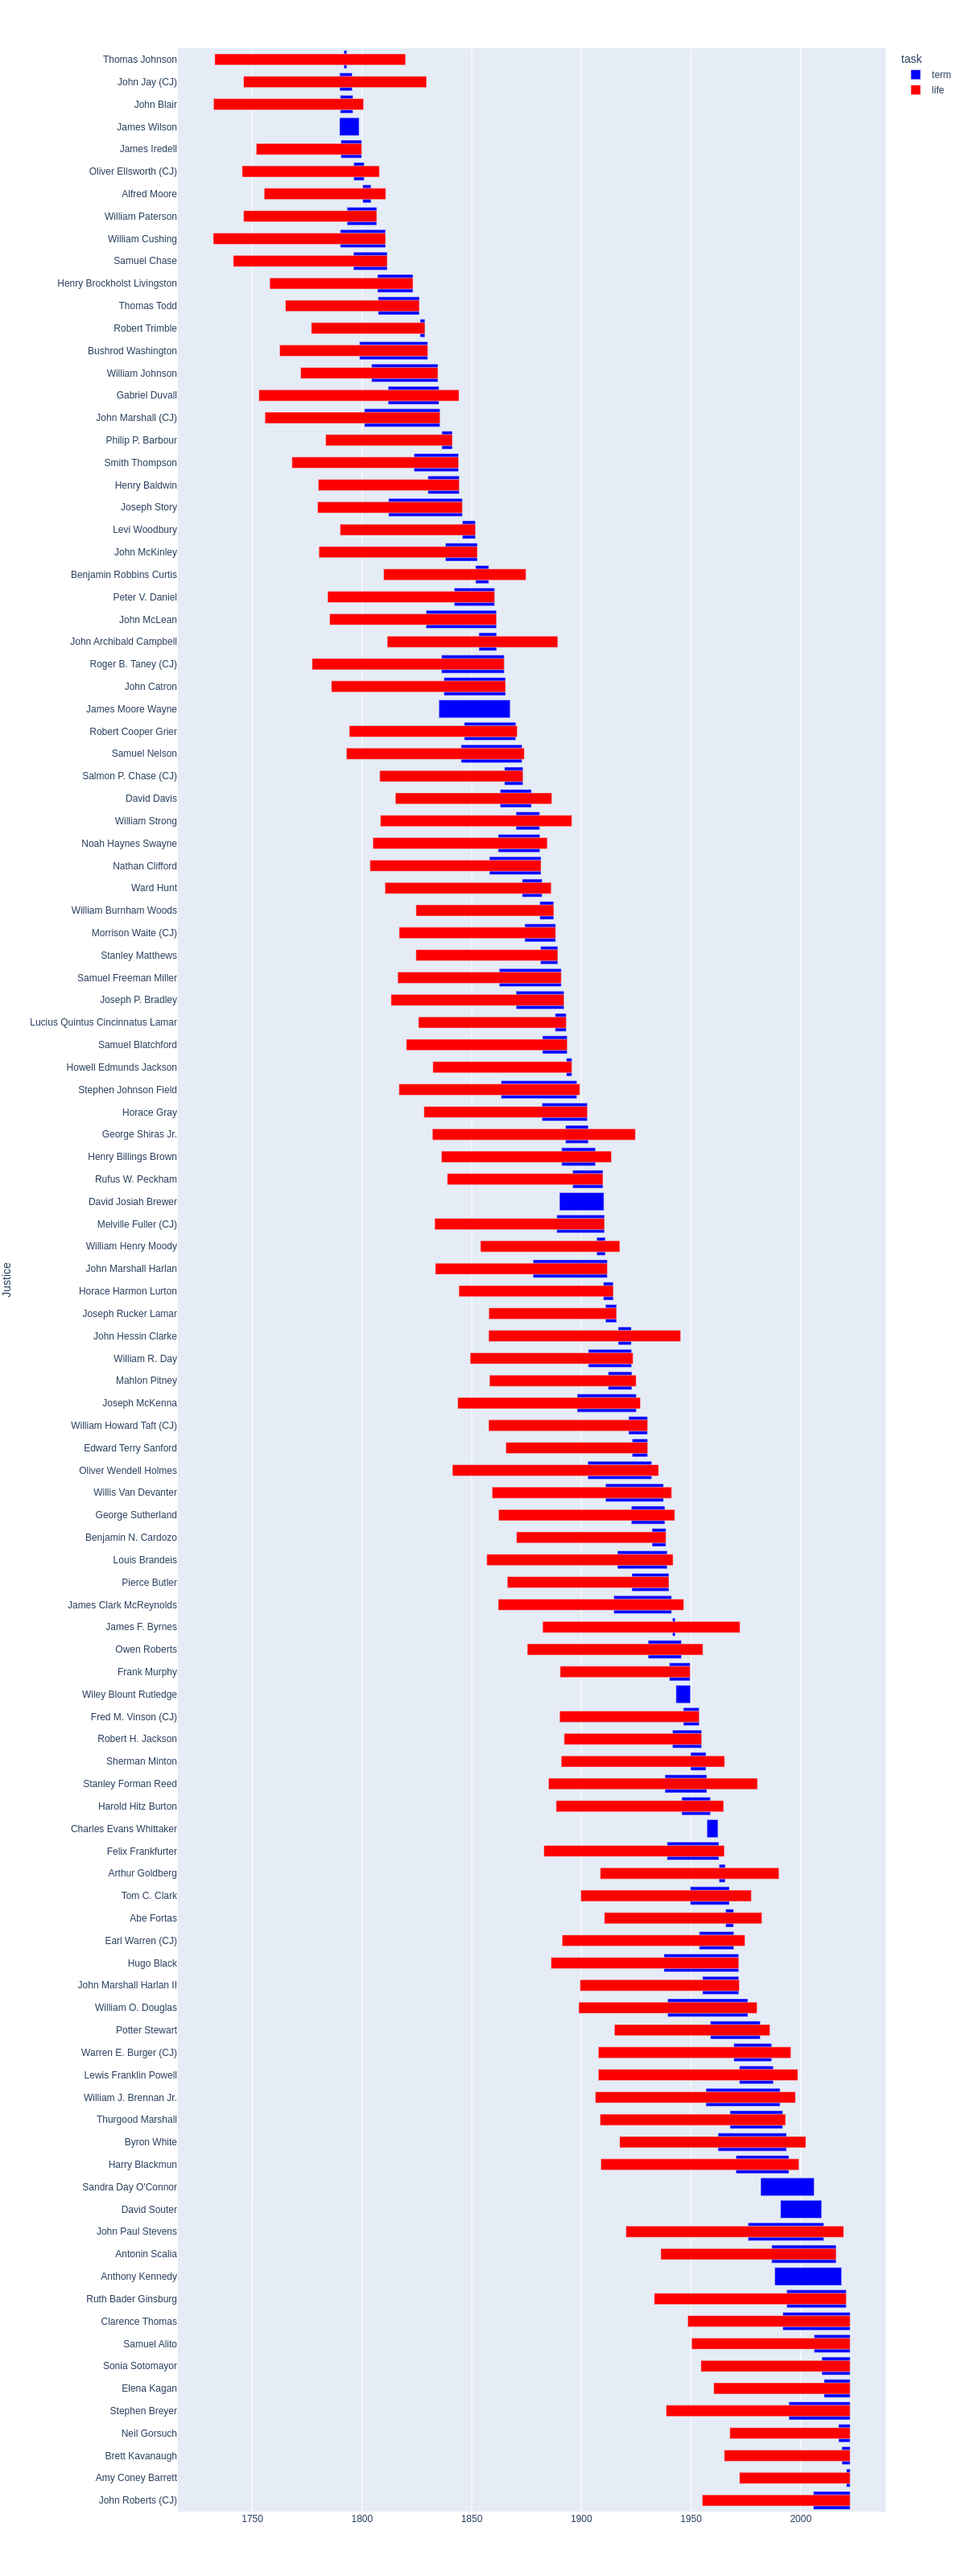
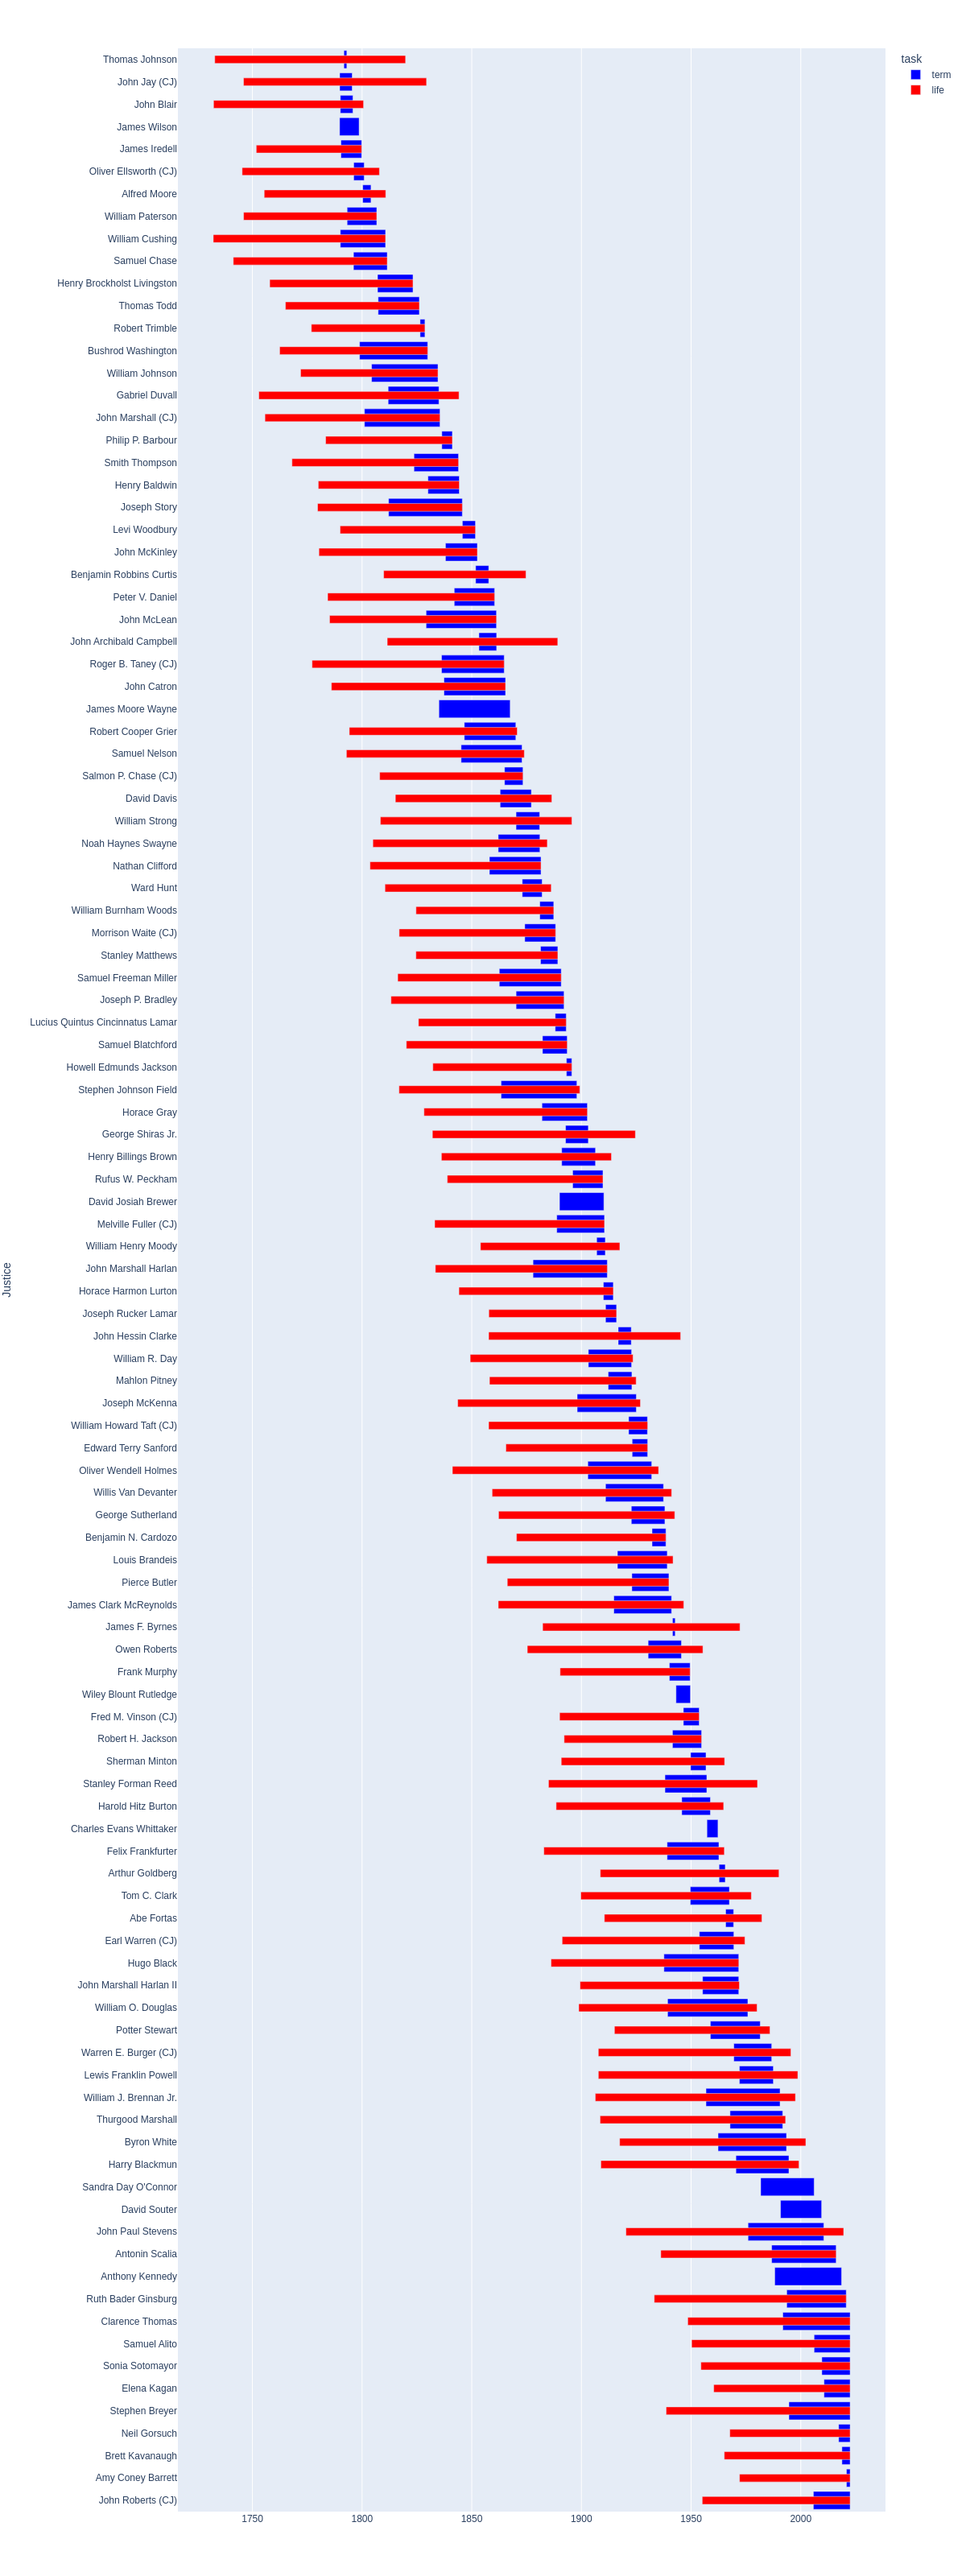
Changed over to .py file

Changed region(s): [[0.2467, 0.0, 0.8942, 0.9688]]

diff --git a/justices.py b/justices.py
@@ -1,0 +1,156 @@
+import re
+import requests
+import pandas as pd
+import numpy as np
+from bs4 import BeautifulSoup
+import plotly.express as px
+
+def get_soup(input_url,parser,find):
+    url = input_url
+    r = requests.get(url)
+    if find == "content" :
+        soup = BeautifulSoup(r.content, parser)
+    else :
+        soup = BeautifulSoup(r.text, parser)
+    return soup
+
+pandas_wiki_df = pd.read_html('https://en.wikipedia.org/wiki/List_of_United_States_Supreme_Court_justices_by_time_in_office')[1]
+# date_errors = pandas_wiki_df[pd.to_datetime(pandas_wiki_df[pandas_wiki_df.columns[4]], errors="coerce").isna()]
+# date_errors
+# pandas_wiki_df[pd.to_datetime(pandas_wiki_df[pandas_wiki_df.columns[4]], errors="coerce").isna()==False]
+
+table = get_soup('https://en.wikipedia.org/wiki/List_of_United_States_Supreme_Court_justices_by_time_in_office','html.parser','content').find( "table", {"id":"justices"} )
+justices_tr = table.findAll("tr")[1:]
+
+justice_name = []
+justice_url = []
+justice_term_start = []
+justice_term_end = []
+
+for justice in justices_tr:
+    justice_str = justice.find_all('td')[1].text
+    justice_name.append(' '.join(justice_str.split()))
+
+    justiceurl = justice.find('a').get('href')
+    justice_url.append(justiceurl)
+    
+    # justice_ts = justice.find_all('td')
+    # justice_term_start.append(justice_ts[4].text)
+
+    # justice_te = justice.find_all('td')
+    # justice_term_end.append(justice_te[5].text)
+
+justice_wiki_link_id = pd.DataFrame({
+                                    'name': justice_name,
+                                    'url': justice_url,
+                    # 'term_start': justice_term_start,
+                    # 'term_end':justice_term_end
+                    })
+# justice_wiki_link_id 
+
+urls = []
+b_date = []
+d_date = []
+
+def parseWikiDateData(wiki_date_data_str,y,m,d):
+    try:
+        year = wiki_date_data_str[y].replace(r"}}", "")
+        month = wiki_date_data_str[m].replace(r"}}", "")
+        day = wiki_date_data_str[d].replace(r"}}", "")
+        date = year+"-"+month+"-"+day
+    except:
+        date = year+"-"+"01"+"-"+"01"
+    return pd.to_datetime(date)
+
+def get_birth_death(justice_url):
+    try:
+        format_justice_url = 'https://en.wikipedia.org/w/api.php?action=query&prop=revisions&rvprop=content&rvsection=0&titles='+justice_url.replace("/wiki/", "")+'&format=xml'
+        soup = get_soup(format_justice_url,'xml','text')
+        urls.append(justice_url)
+        # print(justice_url.replace("/wiki/", ""))
+
+        birth_re = re.search(r'(birth_date(.*?)}})', soup.getText())
+        birth_data = birth_re.group(0).split('|')
+
+        birth_date = parseWikiDateData(birth_data,1,2,3)
+        b_date.append(birth_date)
+
+        try:
+            death_re = re.search(r'(death_date(.*?)}})', soup.getText())
+            death_data = death_re.group(0).split('|')
+            # print(death_data)
+            if death_data[1] == r'{{death date and age':
+                death_date = parseWikiDateData(death_data,2,3,4)
+                d_date.append(death_date)
+            elif death_data[0] > death_data[4]:
+                death_date = parseWikiDateData(death_data,1,2,3)
+                d_date.append(death_date)
+            else:
+                death_date = parseWikiDateData(death_data,4,5,6)
+                d_date.append(death_date)
+        except:
+            d_date.append(np.nan)
+
+    except:
+        print(justice_url.replace("/wiki/", ""))
+        b_date.append(np.nan)
+        d_date.append(np.nan)
+        
+
+for url in justice_wiki_link_id['url']:
+    get_birth_death(url)
+
+birth_death_table = pd.DataFrame({
+                                'urls': urls,
+                                'b_date':b_date,
+                                'd_date':d_date,
+                                })
+workflow_combine_df = pandas_wiki_df.merge(justice_wiki_link_id ,how="left",left_on="Justice",right_on="name").merge(birth_death_table,how="left",left_on="url",right_on="urls")
+formatted_df = pd.concat([workflow_combine_df[pd.to_datetime(workflow_combine_df[workflow_combine_df.columns[4]], 
+                                            errors="coerce").isna()==False]])
+# formatted_df
+
+formatted_df['start_date'] = pd.to_datetime(formatted_df[formatted_df.columns[4]], 
+                                            errors="coerce")
+formatted_df['end_date'] = pd.to_datetime(np.where(formatted_df[formatted_df.columns[5]]=="Incumbent",
+                                    pd.to_datetime("today").strftime("%Y-%m-%d"),
+                                    formatted_df[formatted_df.columns[5]]
+                                    ))
+formatted_df['d_date'] = np.where(formatted_df['end_date']==pd.to_datetime("today").strftime("%Y-%m-%d"),
+                                    formatted_df['end_date'],
+                                    formatted_df['d_date'])    
+formatted_df = formatted_df.sort_values(by="end_date", ascending=False)
+plotly_df = formatted_df[['Justice','start_date','end_date','b_date','d_date']]
+life = plotly_df[['Justice','b_date','d_date']].copy().rename(columns={'b_date':'start_date','d_date':'end_date'})
+life['task'] = 'life'
+term = plotly_df[['Justice','start_date','end_date']].copy()
+term['task'] = 'term'
+df = pd.concat([life,term]).dropna().sort_values(by=["end_date","task"], ascending=False)
+# df[df['Justice']=="Antonin Scalia"]
+# df[df['start_date']>="1900-01-01"]
+# df
+
+lookup_df = life
+lookup = lookup_df[lookup_df.end_date.isnull()]['Justice'].unique()
+# workflow_combine_df[workflow_combine_df['Justice'].isin(lookup)]
+
+colors = {}
+colors['life'] =  'rgb(255, 0, 0)' #specify the color for the 'planned' schedule bars
+colors['term'] = 'rgb(0, 0, 255)'  #specify the color for the 'actual' schedule bars
+
+fig = px.timeline(
+    df, 
+    x_start="start_date", 
+    x_end="end_date", 
+    y="Justice",
+    color='task',
+    color_discrete_map = colors,
+    # hover_name="Task Description"
+    width=1200, height=3200
+    )
+
+# fig.update_yaxes(autorange="reversed")          #if not specified as 'reversed', the tasks will be listed from bottom up       
+fig.data[1].width=0.35 # update the width of the 'Actual' schedule bars (the second trace of the figure)
+fig.show()
+
+
